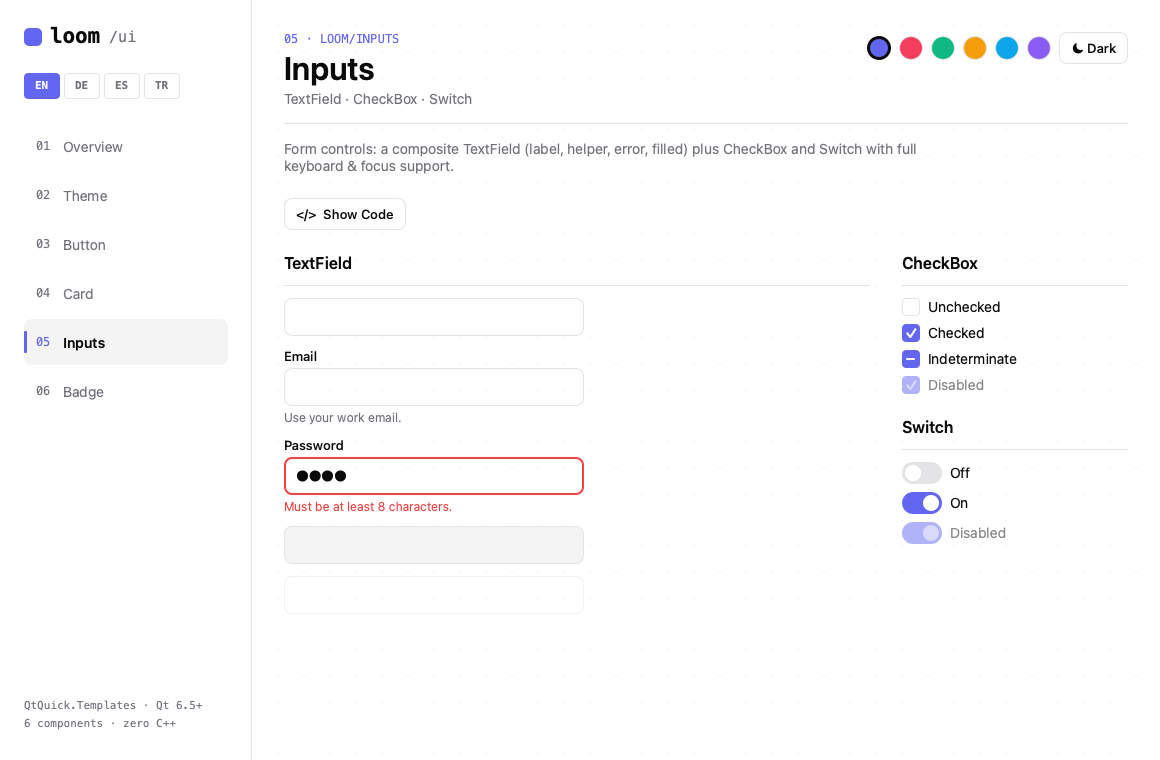
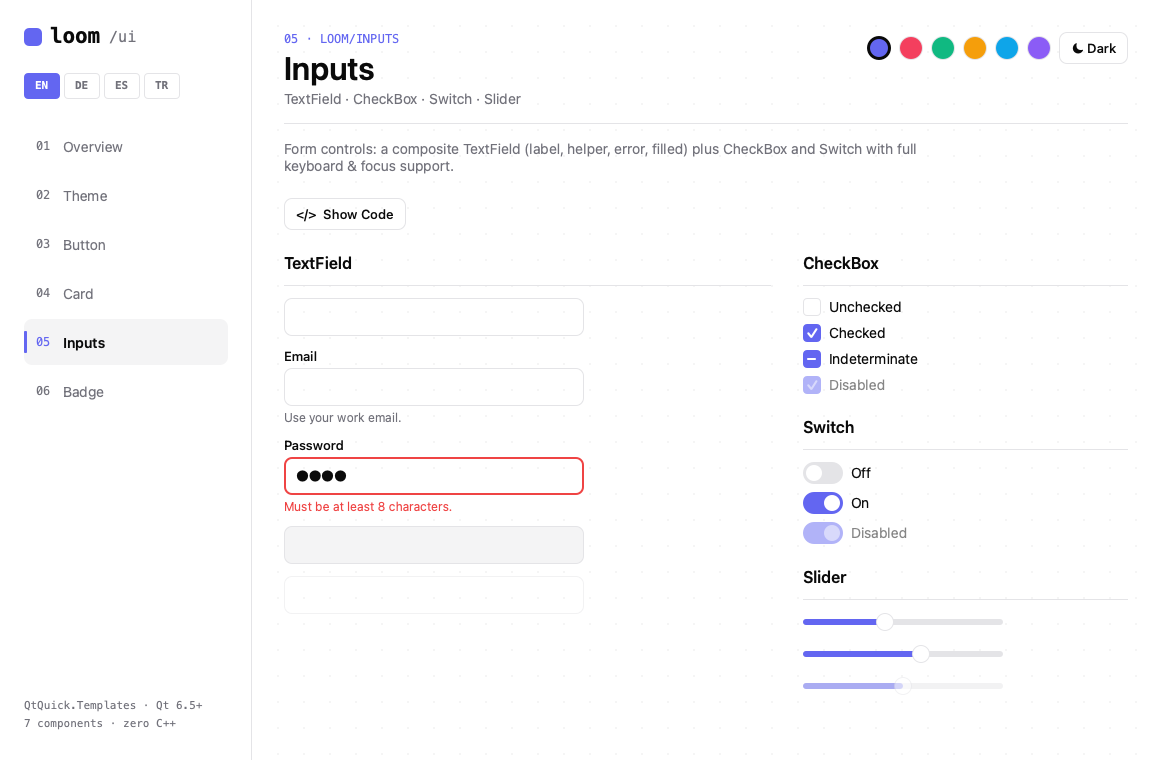
feat: add Slider component

diff --git a/src/Loom/Slider.qml b/src/Loom/Slider.qml
@@ -1,0 +1,54 @@
+import QtQuick
+import QtQuick.Templates as T
+
+// Loom Slider — token'lı groove + accent dolu kısım + sürüklenebilir thumb.
+// T.Slider üstüne (PLAN.md §6): focus / klavye / drag bedava, görseli biz çiziyoruz.
+T.Slider {
+    id: control
+
+    implicitWidth: 200
+    implicitHeight: 20
+    hoverEnabled: true
+    opacity: enabled ? 1.0 : 0.5
+
+    background: Rectangle {
+        id: groove
+        x: control.leftPadding
+        y: control.topPadding + control.availableHeight / 2 - height / 2
+        implicitWidth: 200
+        implicitHeight: 6
+        width: control.availableWidth
+        height: implicitHeight
+        radius: height / 2
+        color: Theme.input
+
+        // dolu kısım — visualPosition (mirroring-uyumlu) ile accent'e boyanır
+        Rectangle {
+            width: control.visualPosition * groove.width
+            height: groove.height
+            radius: groove.radius
+            color: Theme.accent
+        }
+    }
+
+    handle: Rectangle {
+        id: handleRect
+        x: control.leftPadding + control.visualPosition * (control.availableWidth - width)
+        y: control.topPadding + control.availableHeight / 2 - height / 2
+        implicitWidth: 18
+        implicitHeight: 18
+        radius: width / 2
+        color: "white"
+        border.width: (control.hovered || control.pressed) ? 2 : 1
+        border.color: (control.hovered || control.pressed) ? Theme.accent : Theme.border
+        scale: control.pressed ? 1.15 : (control.hovered ? 1.08 : 1.0)
+        Behavior on scale {
+            NumberAnimation { duration: Theme.motion.fast; easing.type: Theme.motion.easing }
+        }
+
+        FocusRing {
+            active: control.visualFocus
+            cornerRadius: handleRect.radius
+        }
+    }
+}

diff --git a/examples/gallery/I18n.qml b/examples/gallery/I18n.qml
@@ -28,7 +28,7 @@ QtObject {
             "desc_theme": "Design token system",
             "desc_button": "Variants · sizes · states",
             "desc_card": "Named slots · elevation",
-            "desc_inputs": "TextField · CheckBox · Switch",
+            "desc_inputs": "TextField · CheckBox · Switch · Slider",
             "desc_badge": "Status labels",
             "ov_hero": "A modern, minimal component library for QML.",
             "ov_body": "The QML answer to shadcn/ui · Radix on the web. Token-based theming, headless behavior on QtQuick.Templates, one-line rebranding. Zero C++ in v1.",
@@ -47,6 +47,7 @@ QtObject {
             "g_textfield": "TextField",
             "g_checkbox": "CheckBox",
             "g_switch": "Switch",
+            "g_slider": "Slider",
             "intro_theme": "Every color, spacing, radius and type value comes from one writable Theme singleton. Change a seed token to rebrand everything live.",
             "intro_button": "Built on QtQuick.Templates — focus, keyboard and press states come for free. Five variants, three sizes, plus loading and icon support.",
             "intro_card": "A container with named header / content / footer slots and an optional MultiEffect shadow (elevation 0–3).",
@@ -82,6 +83,7 @@ QtObject {
             "wi_textfield": "label · helper · error · filled",
             "wi_checkbox": "checked · indeterminate",
             "wi_switch": "animated toggle",
+            "wi_slider": "drag · keyboard · steps",
             "wi_badge": "5 status variants"
         },
         "de": {
@@ -89,7 +91,7 @@ QtObject {
             "desc_theme": "Design-Token-System",
             "desc_button": "Varianten · Größen · Zustände",
             "desc_card": "Benannte Slots · Elevation",
-            "desc_inputs": "TextField · CheckBox · Switch",
+            "desc_inputs": "TextField · CheckBox · Switch · Slider",
             "desc_badge": "Status-Labels",
             "ov_hero": "Eine moderne, minimalistische Komponentenbibliothek für QML.",
             "ov_body": "Die QML-Antwort auf shadcn/ui · Radix im Web. Token-basiertes Theming, headless Verhalten auf QtQuick.Templates, Rebranding mit einer Zeile. In v1 ganz ohne C++.",
@@ -108,6 +110,7 @@ QtObject {
             "g_textfield": "TextField",
             "g_checkbox": "CheckBox",
             "g_switch": "Switch",
+            "g_slider": "Slider",
             "intro_theme": "Jeder Farb-, Abstands-, Radius- und Schriftwert stammt aus einem einzigen beschreibbaren Theme-Singleton. Ändere ein Seed-Token, um alles live umzustylen.",
             "intro_button": "Basiert auf QtQuick.Templates — Fokus-, Tastatur- und Druckzustände gibt es gratis. Fünf Varianten, drei Größen, dazu Loading und Icon.",
             "intro_card": "Ein Container mit benannten header- / content- / footer-Slots und optionalem MultiEffect-Schatten (Elevation 0–3).",
@@ -143,6 +146,7 @@ QtObject {
             "wi_textfield": "Label · Hilfe · Fehler · filled",
             "wi_checkbox": "checked · indeterminate",
             "wi_switch": "animierter Toggle",
+            "wi_slider": "Ziehen · Tastatur · Schritte",
             "wi_badge": "5 Status-Varianten"
         },
         "es": {
@@ -150,7 +154,7 @@ QtObject {
             "desc_theme": "Sistema de design tokens",
             "desc_button": "Variantes · tamaños · estados",
             "desc_card": "Slots con nombre · elevación",
-            "desc_inputs": "TextField · CheckBox · Switch",
+            "desc_inputs": "TextField · CheckBox · Switch · Slider",
             "desc_badge": "Etiquetas de estado",
             "ov_hero": "Una biblioteca de componentes moderna y minimalista para QML.",
             "ov_body": "La respuesta QML a shadcn/ui · Radix en la web. Theming basado en tokens, comportamiento headless sobre QtQuick.Templates, rebranding en una línea. Cero C++ en v1.",
@@ -169,6 +173,7 @@ QtObject {
             "g_textfield": "TextField",
             "g_checkbox": "CheckBox",
             "g_switch": "Switch",
+            "g_slider": "Slider",
             "intro_theme": "Cada color, espaciado, radio y valor tipográfico proviene de un único Theme singleton editable. Cambia un token semilla para rediseñar todo en vivo.",
             "intro_button": "Construido sobre QtQuick.Templates: foco, teclado y estados de pulsación gratis. Cinco variantes, tres tamaños, más loading e icono.",
             "intro_card": "Un contenedor con slots header / content / footer con nombre y sombra MultiEffect opcional (elevación 0–3).",
@@ -204,6 +209,7 @@ QtObject {
             "wi_textfield": "etiqueta · ayuda · error · filled",
             "wi_checkbox": "checked · indeterminate",
             "wi_switch": "toggle animado",
+            "wi_slider": "arrastrar · teclado · pasos",
             "wi_badge": "5 variantes de estado"
         },
         "tr": {
@@ -211,7 +217,7 @@ QtObject {
             "desc_theme": "Design token sistemi",
             "desc_button": "Variant · boyut · durum",
             "desc_card": "Named slot · elevation",
-            "desc_inputs": "TextField · CheckBox · Switch",
+            "desc_inputs": "TextField · CheckBox · Switch · Slider",
             "desc_badge": "Durum etiketleri",
             "ov_hero": "QML için modern, minimal bir component kütüphanesi.",
             "ov_body": "Web'deki shadcn/ui · Radix mantığının QML karşılığı. Token tabanlı tema, QtQuick.Templates üstüne headless davranış, tek satırla yeniden markalama. v1'de sıfır C++.",
@@ -230,6 +236,7 @@ QtObject {
             "g_textfield": "TextField",
             "g_checkbox": "CheckBox",
             "g_switch": "Switch",
+            "g_slider": "Slider",
             "intro_theme": "Her renk, boşluk, radius ve tipografi değeri tek bir yazılabilir Theme singleton'dan gelir. Bir tohum token'ı değiştir, her şey canlı olarak yeniden markalansın.",
             "intro_button": "QtQuick.Templates üstüne kurulu — focus, klavye ve basılı durumları bedava gelir. Beş variant, üç boyut, ayrıca loading ve ikon desteği.",
             "intro_card": "İsimli header / content / footer slot'ları ve opsiyonel MultiEffect gölgesi (elevation 0–3) olan bir konteyner.",
@@ -265,6 +272,7 @@ QtObject {
             "wi_textfield": "label · helper · error · filled",
             "wi_checkbox": "checked · indeterminate",
             "wi_switch": "animasyonlu toggle",
+            "wi_slider": "sürükle · klavye · adım",
             "wi_badge": "5 durum variant'ı"
         }
     }

diff --git a/examples/gallery/InputsPage.qml b/examples/gallery/InputsPage.qml
@@ -23,7 +23,7 @@ ScrollView {
 
         CodeBlock {
             Layout.fillWidth: true
-            code: 'Loom.TextField {\n    label: "Email"\n    placeholderText: "[email redacted]"\n    helperText: "Use your work email."\n    error: false           // true -> red border + errorText\n    variant: "outline"     // outline | filled\n}\n\nLoom.CheckBox { text: "Accept"; tristate: true }\nLoom.Switch   { text: "Notifications"; checked: true }'
+            code: 'Loom.TextField {\n    label: "Email"\n    placeholderText: "[email redacted]"\n    helperText: "Use your work email."\n    error: false           // true -> red border + errorText\n    variant: "outline"     // outline | filled\n}\n\nLoom.CheckBox { text: "Accept"; tristate: true }\nLoom.Switch   { text: "Notifications"; checked: true }\nLoom.Slider   { from: 0; to: 100; value: 60; stepSize: 10 }'
         }
 
         RowLayout {
@@ -78,6 +78,16 @@ ScrollView {
                         Loom.Switch { text: "Off" }
                         Loom.Switch { text: "On"; checked: true }
                         Loom.Switch { text: I18n.t("f_disabled"); checked: true; enabled: false }
+                    }
+                }
+
+                TokenSection {
+                    title: I18n.t("g_slider")
+                    Column {
+                        spacing: Loom.Theme.spacing.md
+                        Loom.Slider { width: 200; value: 0.4 }
+                        Loom.Slider { width: 200; from: 0; to: 100; value: 60; stepSize: 10 }
+                        Loom.Slider { width: 200; value: 0.5; enabled: false }
                     }
                 }
             }

diff --git a/examples/gallery/Main.qml b/examples/gallery/Main.qml
@@ -184,7 +184,7 @@ ApplicationWindow {
                 Item { Layout.fillHeight: true }
 
                 Text {
-                    text: "QtQuick.Templates · Qt 6.5+\n6 components · zero C++"
+                    text: "QtQuick.Templates · Qt 6.5+\n7 components · zero C++"
                     color: Loom.Theme.mutedForeground
                     font.family: "Menlo"
                     font.pixelSize: 11

diff --git a/examples/gallery/OverviewPage.qml b/examples/gallery/OverviewPage.qml
@@ -65,6 +65,7 @@ ScrollView {
                     { n: "TextField", k: "wi_textfield" },
                     { n: "CheckBox",  k: "wi_checkbox" },
                     { n: "Switch",    k: "wi_switch" },
+                    { n: "Slider",    k: "wi_slider" },
                     { n: "Badge",     k: "wi_badge" }
                 ]
                 delegate: Rectangle {

diff --git a/README.md b/README.md
@@ -119,7 +119,7 @@ cmake --build build
 |---|---|
 | ![Loom in dark mode](docs/overview-dark.png) | ![Theme token system](docs/theme-dark.png) |
 
-| Buttons — variants, sizes & states | Inputs — TextField, CheckBox, Switch |
+| Buttons — variants, sizes & states | Inputs — TextField, CheckBox, Switch, Slider |
 |---|---|
 | ![Button showcase](docs/button.png) | ![Form controls](docs/inputs.png) |
 